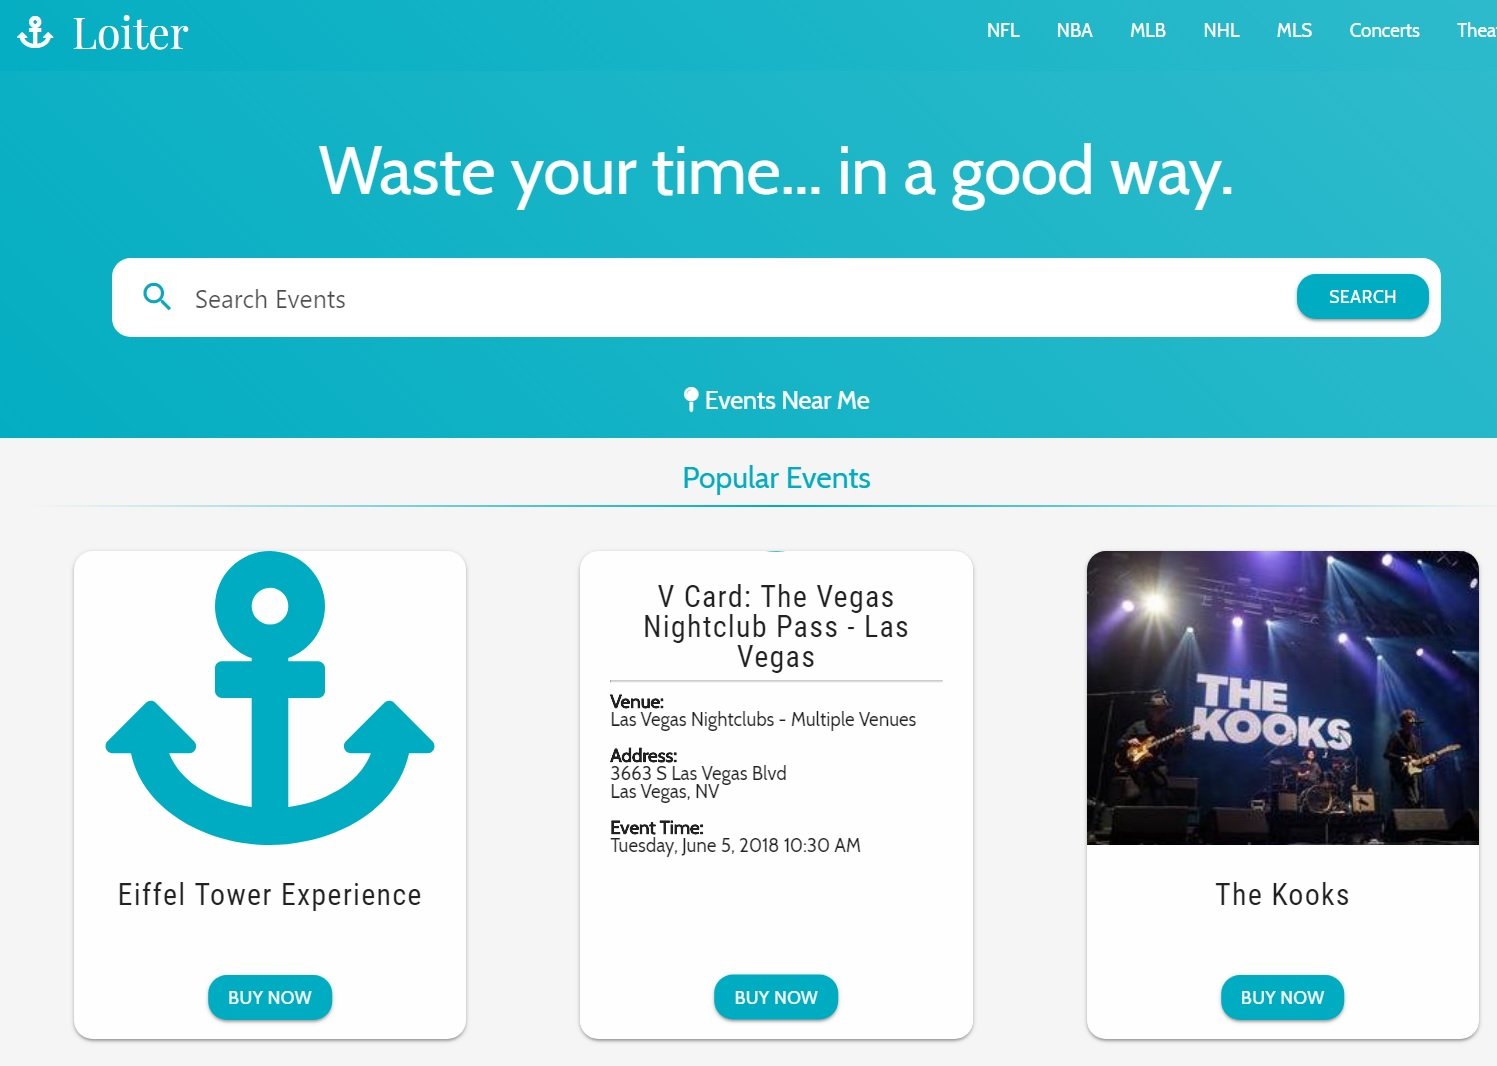
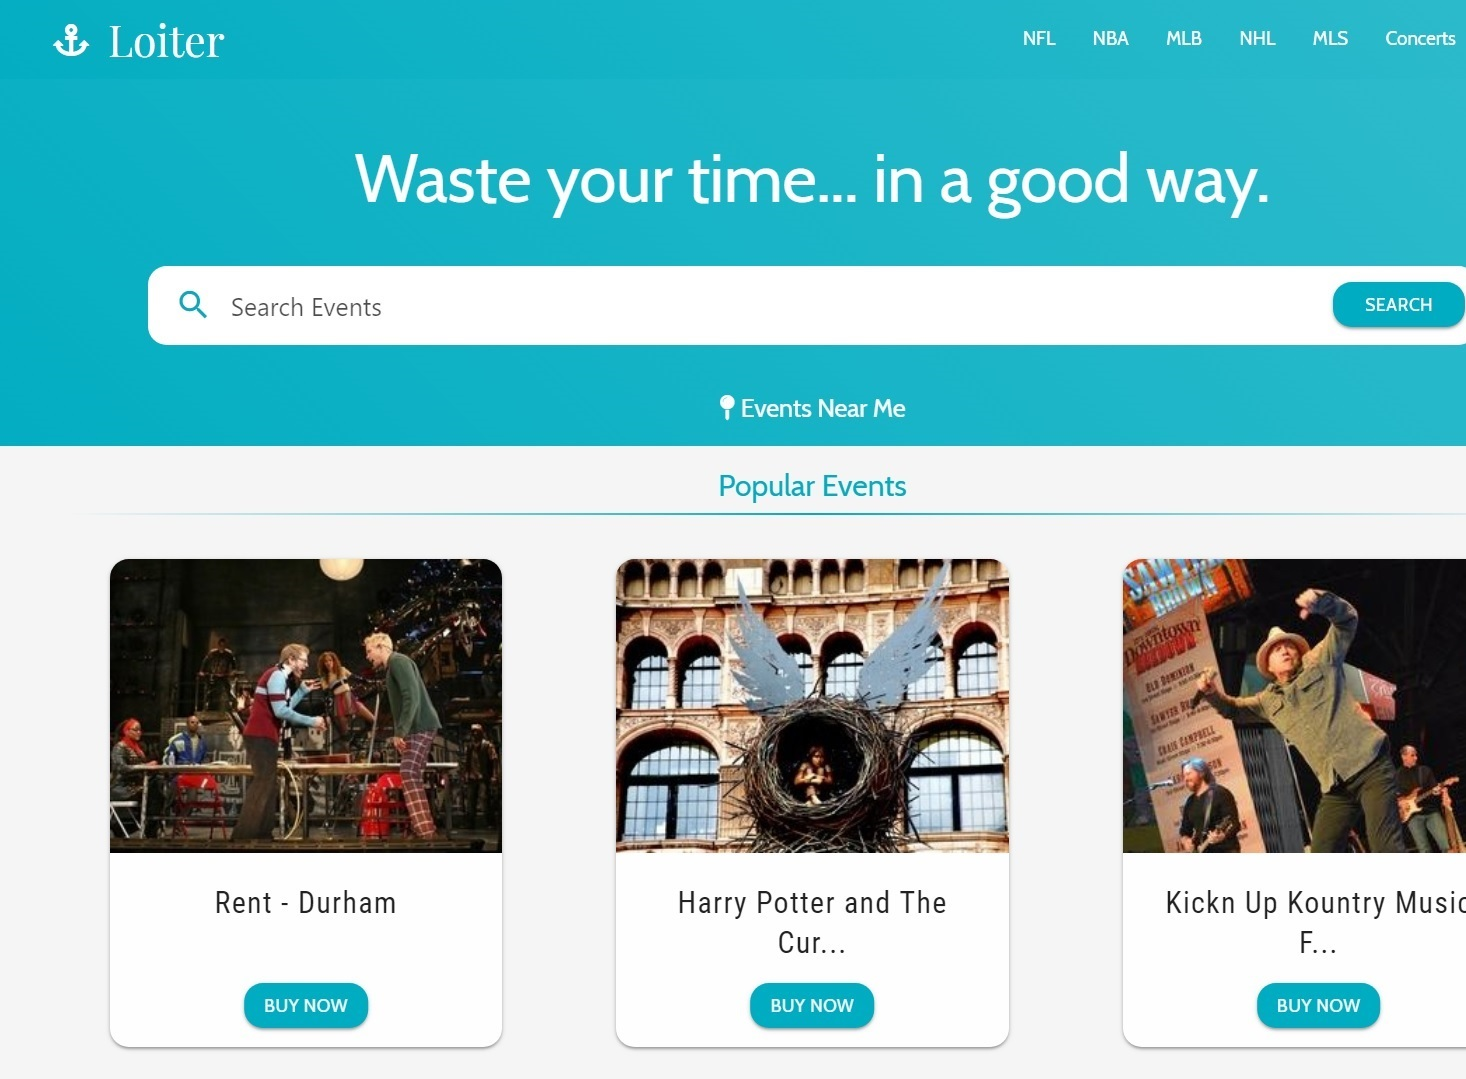
responsive and better images

diff --git a/css/style.css b/css/style.css
@@ -109,7 +109,10 @@ a,
         line-height: normal!important;
     }
     #navHeaderLogo {
-        font-size: 38px;
+        font-size: 36px;
+    }
+    #landingPageNav {
+        width: 100%;
     }
     .cardInfo{
         font-size: 14px;
